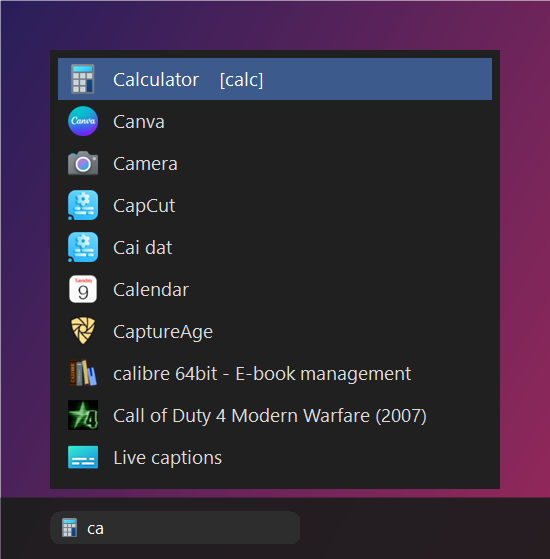
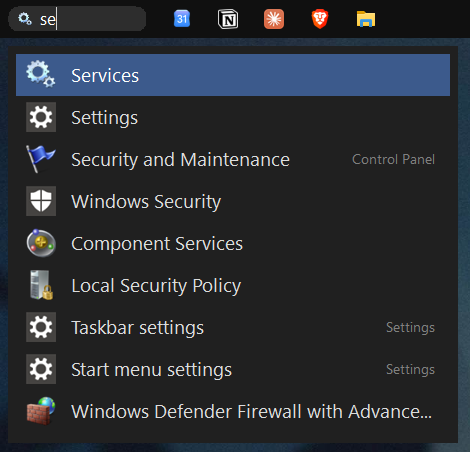
Update screenshot

diff --git a/README.md b/README.md
@@ -3,7 +3,7 @@
 A tiny app-launcher search box that lives **inside the Windows taskbar** (top or bottom), right next to the system icons.
 Type a few letters, it suggests your apps with their icons, press **Enter** or click to launch.
 
-![Launcher in the taskbar: typing "ca" suggests Calculator, Canva, Camera...](docs/screenshot.png)
+![Launcher in the taskbar: typing "se" suggests Services, Settings, Security and Maintenance...](docs/screenshot.png)
 
 Written in plain PowerShell + WinForms (with a bit of inline C#): nothing to install, it runs on the
 PowerShell 5.1 that ships with Windows.
